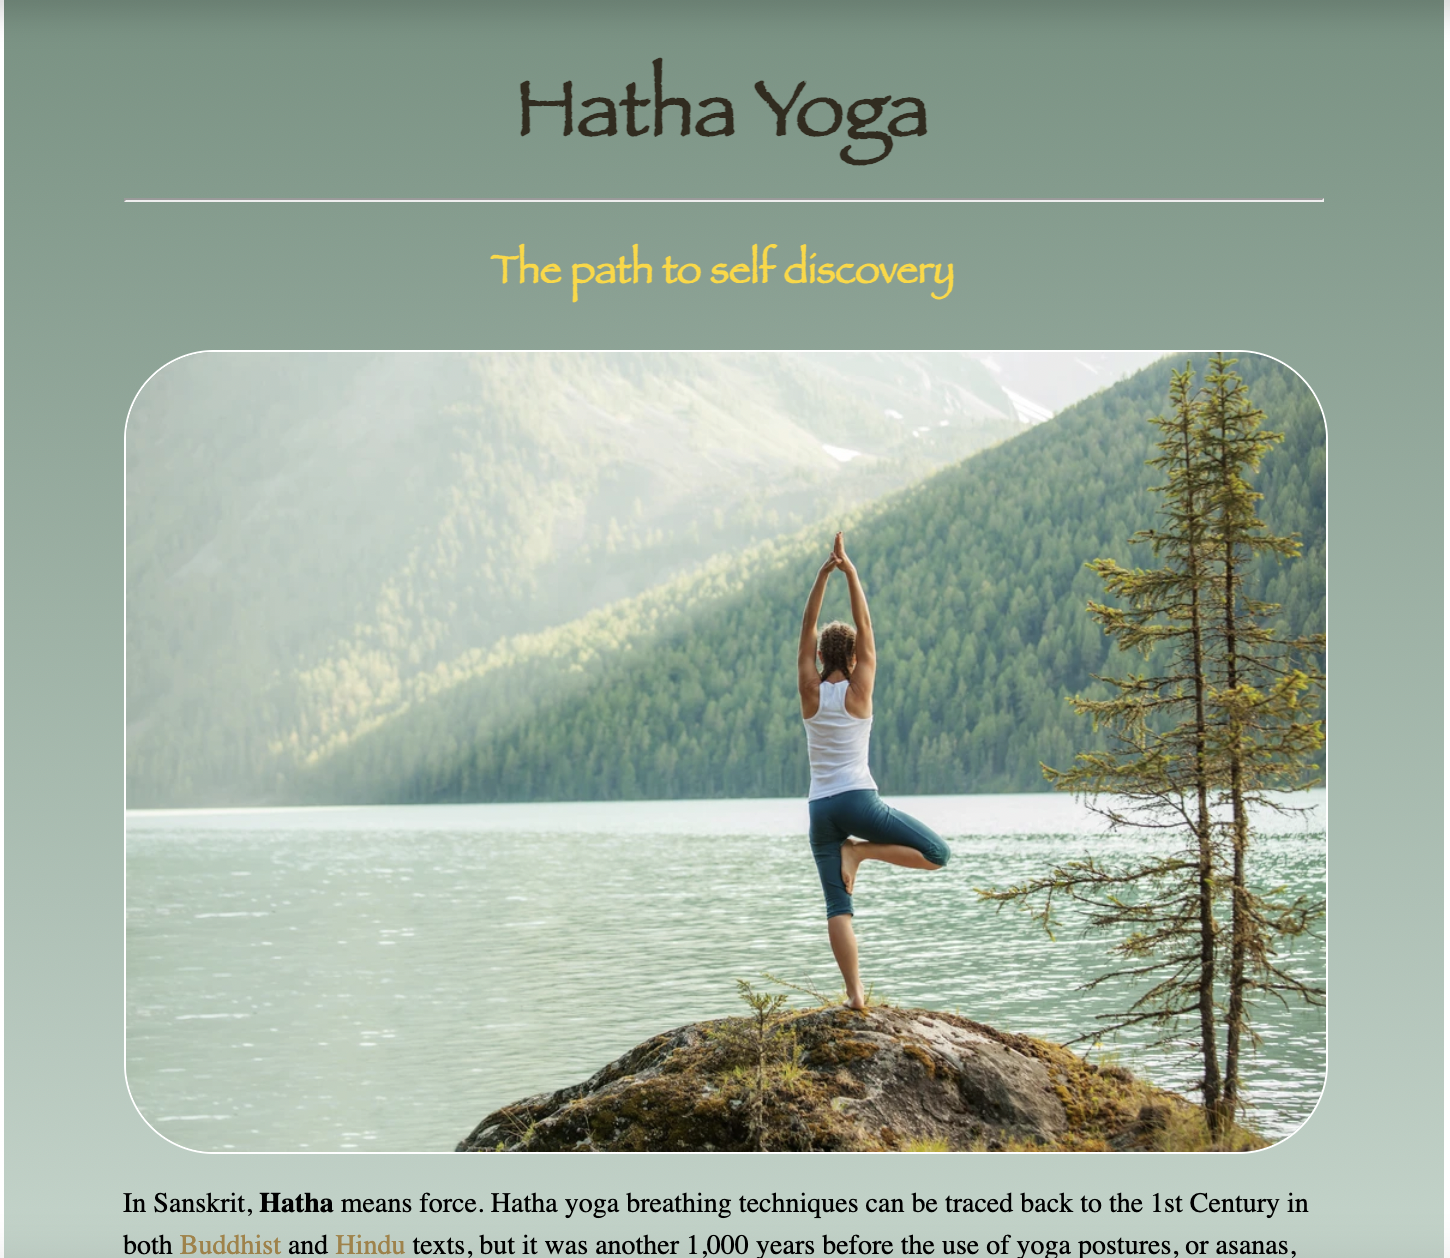
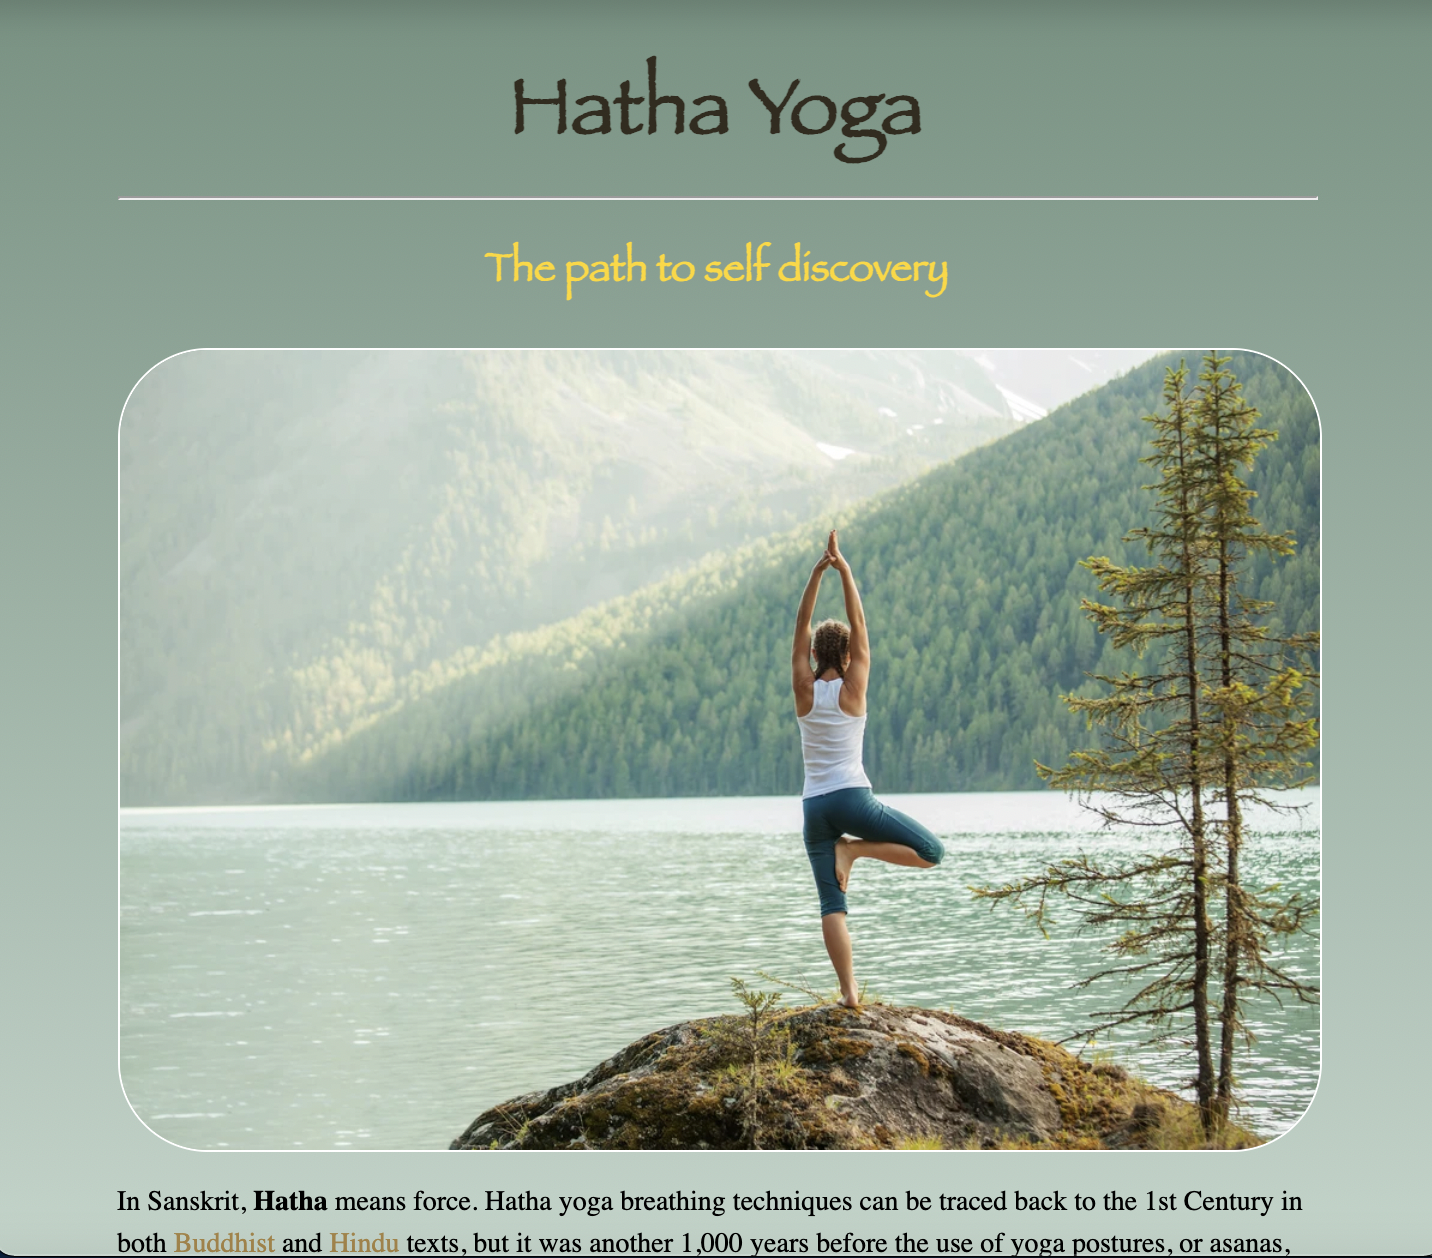
Made design/layout improvements

diff --git a/index.html b/index.html
@@ -65,7 +65,7 @@
         <div class="container">
         <div class="row">
             <div class="col d-none d-lg-block">
-                <img src="/img/Yoga_Homepage.png" alt="Carina Yoga Homepage" class="img-fluid rounded p-3">
+                <img src="/img/Yoga_Homepage.png" alt="Carina Yoga Homepage" class="img-fluid picture m-3">
             </div>
             <div class="col project-description">
                 <h2>Yoga Homepage</h2>
@@ -78,7 +78,7 @@
             <p>Here you can see a Weather App that was programmed on VS Code, using HTML, CSS, Javascript and a weather API. It is a full functioning app providing you with real time information about temperature, humidity, wind condition and a 6 day forecast for a broad number of cities world wide. Please go ahead and check it out (desktop version).</p>
         <a href="#" target="_blank" class="btn btn-project-overview">Launch App</a></div>
             <div class="col d-none d-lg-block">
-                <img src="/img/Carina_Weather_App.png" alt="Carina Weather App" class="img-fluid rounded p-3">
+                <img src="/img/Carina_Weather_App.png" alt="Carina Weather App" class="img-fluid picture m-3">
             </div>
             
         </div>

diff --git a/work.html b/work.html
@@ -73,21 +73,25 @@
     </p>
     <div class="container">
       <div class="row">
-        <div class="col-6 mb-5">
+        <div class="col-md-6 mb-5">
           <img
             src="/img/Carina_Weather_App.png"
-            class="img-work img-fluid rounded"
+            class="img-work img-fluid picture m-3"
             width="80%"
             alt="Weather App"
           />
+          <h4 class="text-center">Weather App</h4>
+          <p class="text-center">Built with HTML, CSS and JavaScript.</p>
         </div>
-        <div class="col-6">
+        <div class="col-md-6">
           <img
             src="/img/Yoga_Homepage.png"
-            class="img-work img-fluid rounded"
-            width="60%"
+            class="img-work img-fluid picture m-3"
+            width="57%"
             alt="Weather App"
           />
+          <h4 class="text-center">Yoga Homepage</h4>
+          <p class="text-center">Built with HTML, CSS and JavaScript.</p>
         </div>
       </div>
     </div>

diff --git a/src/styles.css b/src/styles.css
@@ -66,7 +66,10 @@ p {
   font-size: 18px;
   text-align: center;
 }
-
+.picture {
+  border-radius: 15px;
+  box-shadow: 10px 10px 5px var(--primary-color);
+}
 .project-description p {
   color: var(--secondary-color);
   text-align: left;
